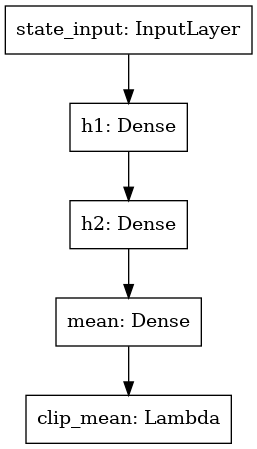
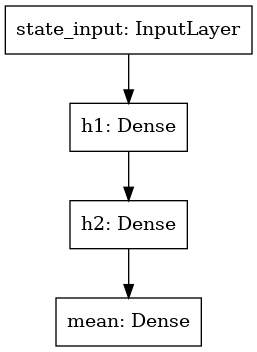
update

Changed region(s): [[0.0934, 0.1875, 0.9027, 1.0], [0.0, 0.0, 0.9961, 0.1562]]

diff --git a/sac/network.py b/sac/network.py
@@ -11,13 +11,12 @@ import tensorflow_probability as tfp
 class Actor:
 
     def __init__(
-        self, 
-        state_shape=None, 
-        action_shape=None, 
-        lr=None, 
-        model_path=None, 
-        log_std_init=-3.0, 
-        clip_mean: float = 2.0
+        self,
+        state_shape = None,
+        action_shape = None,
+        learning_rate = None,
+        model_path = None,
+        log_std_init: float = -3.0
     ):
 
         if model_path == None:
@@ -25,9 +24,8 @@ class Actor:
             l1 = Dense(400, activation='relu', name='h1')(state_input)
             l2 = Dense(300, activation='relu', name='h2')(l1)       # latent_sde
         
-            # vystupna vrstva   -- 'mean' musi byt v intervale (-clip_mean, clip_mean)
+            # vystupna vrstva   -- 'mean' musi byt v intervale (-∞, ∞)
             mean = Dense(action_shape[0], activation='linear', name='mean')(l2)
-            mean = Lambda(lambda x: tf.clip_by_value(x, -clip_mean, clip_mean), name='clip_mean')(mean)
 
             # variance params
             self.log_std = tf.Variable(tf.ones([300, action_shape[0]]) * log_std_init, trainable=True, name='log_std')
@@ -46,7 +44,7 @@ class Actor:
             print('Actor loaded from file succesful ...')            
 
         # Optimalizator modelu
-        self.optimizer = Adam(learning_rate=lr)
+        self.optimizer = Adam(learning_rate=learning_rate)
         self.bijector = tfp.bijectors.Tanh()
 
         self.model.summary()
@@ -89,11 +87,11 @@ class Actor:
 class Critic:
 
     def __init__(
-        self, 
-        state_shape=None, 
-        action_shape=None, 
-        lr=None, 
-        model_path=None
+        self,
+        state_shape = None,
+        action_shape = None,
+        learning_rate = None,
+        model_path = None
     ):
 
         if model_path == None:
@@ -105,7 +103,7 @@ class Critic:
             l1 = Dense(400, activation='relu', name='h1')(merged)
             l2 = Dense(300, activation='relu', name='h2')(l1)
 
-            # vystupna vrstva   -- Q hodnoty su v intervale (-∞, ∞)!!!
+            # vystupna vrstva   -- Q hodnoty su v intervale (-∞, ∞)
             output = Dense(1, activation='linear', name='q_val')(l2)
 
             # Vytvor model
@@ -116,7 +114,7 @@ class Critic:
             print('Critic loaded from file succesful ...')
         
         # Optimalizator modelu
-        self.optimizer = Adam(learning_rate=lr)
+        self.optimizer = Adam(learning_rate=learning_rate)
 
         self.model.summary()
 

diff --git a/main.py b/main.py
@@ -16,9 +16,9 @@ if __name__ == "__main__":
     my_parser.add_argument('-t', '--max_steps', type=int, help='Maximum number of interactions doing in environment', default=int(1e6))
     my_parser.add_argument('--noise_type', type=str, help='Type of used noise generator [normal, ornstein-uhlenbeck] (only for TD3)', default='ornstein-uhlenbeck')
     my_parser.add_argument('--action_noise', type=float, help='Standard deviation of action noise (only for TD3)', default=0.5)
-    my_parser.add_argument('--gamma', type=float, help='Discount factor', default=0.99)
-    my_parser.add_argument('-lr', '--learning_rate', type=float, help='Learning rate', default=3e-4)
-    my_parser.add_argument('--tau', type=float, help='Soft update learning rate', default=0.005)
+    my_parser.add_argument('--gamma', type=float, help='Discount factor', default=0.98)
+    my_parser.add_argument('-lr', '--learning_rate', type=float, help='Learning rate', default=7.3e-4)
+    my_parser.add_argument('--tau', type=float, help='Soft update rate', default=0.02)
     my_parser.add_argument('--batch_size', type=int, help='Size of the batch', default=256)
     my_parser.add_argument('--replay_size', type=int, help='Size of the replay buffer', default=int(1e6))
     my_parser.add_argument('--learning_starts', type=int, help='Number of steps before using policy network', default=10000)

diff --git a/sac/sac.py b/sac/sac.py
@@ -167,7 +167,7 @@ class SAC:
             self._update_target(self.critic_1, self.critic_targ_1, tau=self._tau)
             self._update_target(self.critic_2, self.critic_targ_2, tau=self._tau)
 
-            print(gradient_step, self.loss_a.result(), self.loss_c1.result(), self.loss_c2.result(), self.loss_alpha.result())
+            #print(gradient_step, self.loss_a.result(), self.loss_c1.result(), self.loss_c2.result(), self.loss_alpha.result())
         
         # logging of epoch's mean loss
         if (logging_wandb):
